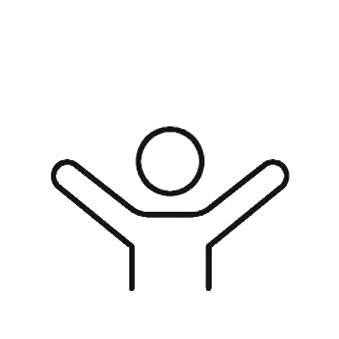
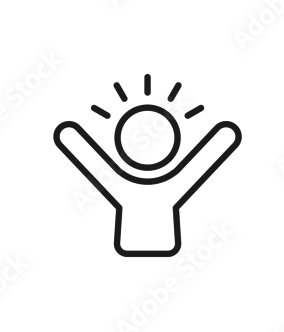
Merge branch 'main' into testing

Pull request: Prep all changes for study team testing

Changed region(s): [[0.1408, 0.2108, 0.8732, 0.8735], [0.6479, 0.3012, 0.7324, 0.3614], [0.3099, 0.3012, 0.3944, 0.3614]]

diff --git a/js/config.js b/js/config.js
@@ -396,9 +396,9 @@ PDF.generatePDF = async function (record_id, name) {
     "* The recommended score for alcohol consumption is based off of a composite score of the Audit-C instrument. It is not a recommendation of number of alcoholic drinks.",
     "For more information, click here",
     "https://www.hepatitis.va.gov/alcohol/treatment/audit-c.asp#:~:text=The%20AUDIT%2DC%20is%20scored,his%2Fher%20health%20and%20safety",
-    startingX,
+    coordinates[0],
     coordinates[1] + 6,
-    pageWidth
+    pageWidth - 40
   );
 
   doc.addPage();
@@ -488,9 +488,9 @@ const addFootnote = function (
   footnoteUrl,
   x,
   y,
-  pageWidth
+  width
 ) {
-  const footnoteWidth = pageWidth - 10;
+  const footnoteWidth = width;
   const footnoteLineHeight = 4;
   doc.setFont(styles.font, styles.fontStyle);
   doc.setFontSize(8);
@@ -1046,10 +1046,14 @@ const summaryTable = function (
 };
 
 const createTailoredCareSection = function (doc, coordinates, width) {
-  const sectionHeight = 30;
   const backgroundColor = "#BBBBBB"; // Light gray background
-  const sectionX = coordinates[0];
   const sectionY = coordinates[1];
+  const sectionCenterX = width / 2;
+  const buttonText = "Click here to learn more.";
+  const titleY = sectionY + 6;
+  const buttonY = titleY + 3;
+  const buttonHeight = 10;
+  const sectionHeight = buttonY - sectionY + buttonHeight + 1;
 
   // Create gray background rectangle
   doc.setFillColor(backgroundColor);
@@ -1060,37 +1064,32 @@ const createTailoredCareSection = function (doc, coordinates, width) {
   doc.setTextColor("#FFFFFF"); // White text
   doc.setFontSize(14);
   doc.text(
-    "You qualified for a tailored care pathway:",
-    sectionX + width / 2,
-    sectionY + 5,
-    { align: "center" }
-  );
-
-  doc.setFont(styles.font, styles.fontStyle);
-  doc.text(
-    "If you enroll, a member of the OCIH team will reach out to help you further",
-    sectionX + width / 2,
-    sectionY + 12,
-    { align: "center" }
-  );
-  doc.text(
-    "tailor this plan and put it into action with individual support.",
-    sectionX + width / 2,
-    sectionY + 17,
+    "You qualified for a tailored care pathway!",
+    sectionCenterX,
+    titleY,
     { align: "center" }
   );
   // Add enrollment button
+  doc.setFontSize(12);
+  doc.setFont(styles.font, styles.fontStyle);
+  const buttonWidth = doc.getTextWidth(buttonText) + 12;
   doc.setFillColor("#FFFFFF");
-  doc.roundedRect(sectionX + width / 2 - 25, sectionY + 20, 50, 8, 3, 3, "F");
+  doc.roundedRect(
+    sectionCenterX - buttonWidth / 2,
+    buttonY,
+    buttonWidth,
+    buttonHeight,
+    3,
+    3,
+    "F"
+  );
 
   // Add enrollment link
   doc.setTextColor("#990000"); // Dark red text
-  doc.setFontSize(12);
-  doc.setFont(styles.font, styles.fontStyle);
   doc.textWithLink(
-    "Click here to enroll!",
-    sectionX + width / 2,
-    sectionY + 25,
+    buttonText,
+    sectionCenterX,
+    buttonY + 6.5,
     {
       align: "center",
       url: PDF.tcpLink,

diff --git a/PDFGeneratorTesting.php b/PDFGeneratorTesting.php
@@ -547,6 +547,9 @@ class PDFGeneratorTesting extends \ExternalModules\AbstractExternalModule {
                 else if ($record[1]['provider'] == "3" && $record[1]['provider_help'] == "0") {
                     $user_choice = "no_pcp";
                 }
+                else {
+                    $user_choice = "no_pcp";
+                }
             }
 
             $resourceKey = $key . '_' . $user_choice;

diff --git a/process_resources.py b/process_resources.py
@@ -3,7 +3,7 @@ import pandas as pd
 import unicodedata
 import json
 
-df = pd.read_excel('./wellu_resources_y3_final_4.30.26.xlsx', sheet_name='USE THIS WellU V3 resource')
+df = pd.read_excel('./wellu_resources_y3_final_TEMP.xlsx', sheet_name='USE THIS WellU V3 resource')
 # df = pd.read_excel('./wellu_resources_final_mm.xlsx', sheet_name='WellU V2 resource map FINAL')
 
 def normalize_text(text):